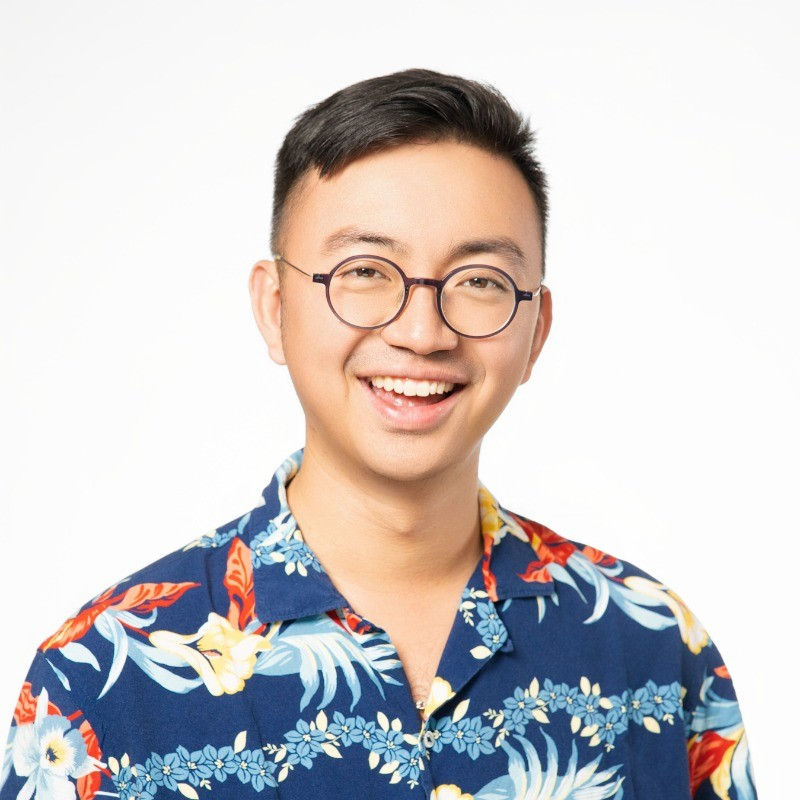
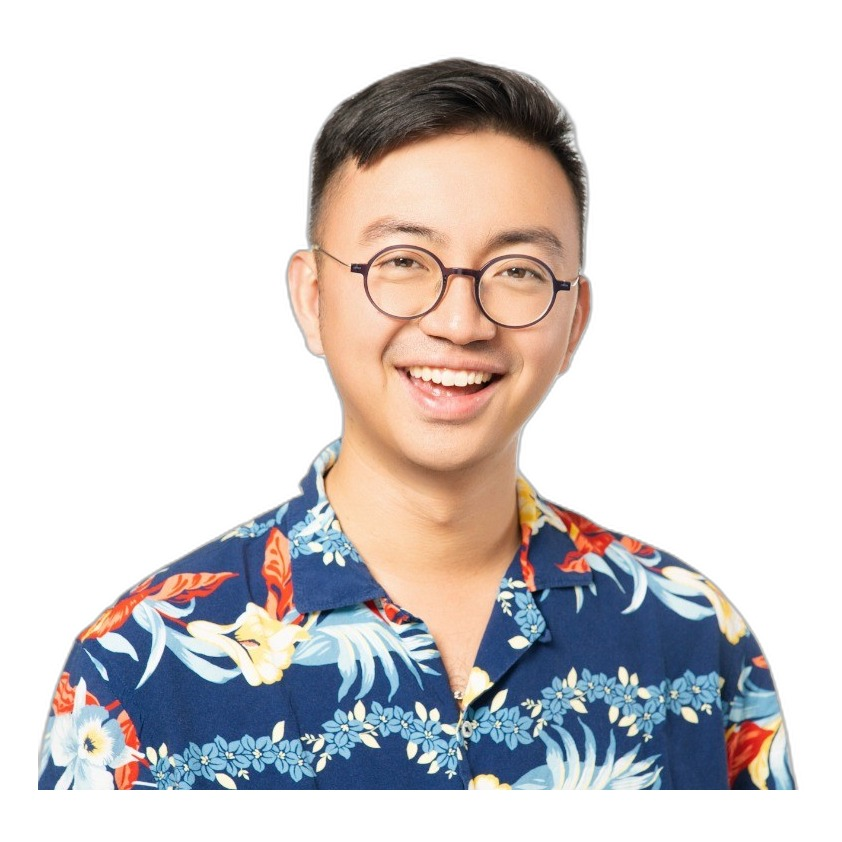
Standardize team headshots on white backgrounds
- Remove the varied photo backgrounds from all 8 board headshots and
  place each subject on a consistent white background
- Recenter Susan Collins's photo
- Re-crop John Mueller's photo to exclude a second person
- Match the Amy Murro initials placeholder to the white style

diff --git a/about.html b/about.html
@@ -115,7 +115,7 @@
           <span class="role">Chairman</span>
         </div>
         <div class="board-member">
-          <img class="photo" src="img/headshots/John.jpeg" alt="John Mueller">
+          <img class="photo" src="img/headshots/john-mueller.jpg" alt="John Mueller">
           <span class="name">John Mueller</span>
           <span class="role">Co-Founder &amp; Director</span>
         </div>
@@ -130,7 +130,7 @@
           <span class="role">Secretary</span>
         </div>
         <div class="board-member">
-          <img class="photo" src="img/headshots/matt.png" alt="Matt Rubins">
+          <img class="photo" src="img/headshots/matt-rubins.jpg" alt="Matt Rubins">
           <span class="name">Matt Rubins</span>
           <span class="role">Director</span>
         </div>
@@ -140,12 +140,12 @@
           <span class="role">Director</span>
         </div>
         <div class="board-member">
-          <img class="photo" src="img/headshots/bill.png" alt="Bill Sonnenstuhl">
+          <img class="photo" src="img/headshots/bill-sonnenstuhl.jpg" alt="Bill Sonnenstuhl">
           <span class="name">Bill Sonnenstuhl</span>
           <span class="role">Director</span>
         </div>
         <div class="board-member">
-          <img class="photo" src="img/headshots/Ben.jpeg" alt="Ben Bacharach">
+          <img class="photo" src="img/headshots/ben-bacharach.jpg" alt="Ben Bacharach">
           <span class="name">Ben Bacharach</span>
           <span class="role">Director</span>
         </div>

diff --git a/css/style.css b/css/style.css
@@ -436,8 +436,8 @@ h1, h2, h3, h4 { font-weight: 700; line-height: 1.2; }
   display: flex;
   align-items: center;
   justify-content: center;
-  background: linear-gradient(150deg, #3a1160, #1c0530);
-  color: rgba(255, 255, 255, 0.55);
+  background: #ffffff;
+  color: #b3b3b3;
   font-size: 2.6rem;
   font-weight: 700;
   letter-spacing: 1px;
